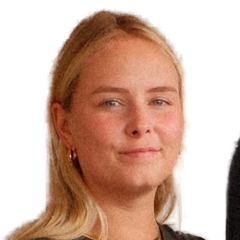
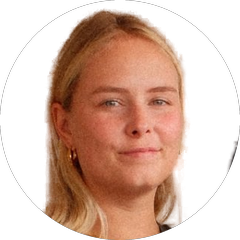
Ronde gezichtsfoto's met witte achtergrond
Claude-Session: https://claude.ai/code/session_01CxNm3TScYfzoPuYnLpJg8V

diff --git a/index.html b/index.html
@@ -2540,7 +2540,7 @@ a.hstat:hover span:not(.hs-star){color:rgba(255,255,255,.8)}
 <div class="hb-grid"><div class="hb-left"><h1 class="hero-h">
 <span class="blue">Salesafspraken in je agenda</span> zonder zelf acquisitie te doen
       </h1>
-<a class="hb-mob" href="#hvVideo"><span class="hb-faces"><img src="/assets/img/face-anne-roos.png?v=2" width="160" height="160" alt="Anne-Roos"/><img src="/assets/img/face-demi.png?v=2" width="160" height="160" alt="Demi"/></span><span class="hb-hi">Check even de korte video hieronder</span><svg viewBox="0 0 40 46" width="26" height="30" fill="none" stroke="currentColor" stroke-width="2.6" stroke-linecap="round" stroke-linejoin="round" aria-hidden="true"><path d="M6 4c14 2 18 14 16 34"/><path d="M14 30l8 10 8-10"/></svg></a>
+<a class="hb-mob" href="#hvVideo"><span class="hb-faces"><img src="/assets/img/face-anne-roos.png?v=3" width="160" height="160" alt="Anne-Roos"/><img src="/assets/img/face-demi.png?v=3" width="160" height="160" alt="Demi"/></span><span class="hb-hi">Check even de korte video hieronder</span><svg viewBox="0 0 40 46" width="26" height="30" fill="none" stroke="currentColor" stroke-width="2.6" stroke-linecap="round" stroke-linejoin="round" aria-hidden="true"><path d="M6 4c14 2 18 14 16 34"/><path d="M14 30l8 10 8-10"/></svg></a>
 <div class="hcta">
 <a class="hcta-main" href="/book" onclick="if(window.l2lTrack)l2lTrack('hero_fitcheck_click');"><span>Plan je gratis fitcheck</span><svg width="18" height="18" viewBox="0 0 24 24" fill="none" stroke="currentColor" stroke-width="2.4" stroke-linecap="round" stroke-linejoin="round" aria-hidden="true"><path d="M5 12h14M13 6l6 6-6 6"/></svg></a>
 </div>
@@ -3202,7 +3202,7 @@ if(document.readyState==='complete')begin();else window.addEventListener('load',
 <div class="cf-hp"><label for="sc-website">Website</label><input autocomplete="off" id="sc-website" name="website" tabindex="-1" type="text"/></div>
 <button class="btn-solid cf-submit" id="scSubmit" type="submit">Stuur mij de marktscan →</button>
 <div aria-live="polite" class="cf-msg" id="scMsg" role="status"></div>
-<p class="who-l who-c"><span class="cm-faces"><img src="/assets/img/face-anne-roos.png?v=2" width="44" height="44" alt="Anne-Roos"><img src="/assets/img/face-demi.png?v=2" width="44" height="44" alt="Demi"></span><span>Je marktscan komt van Anne-Roos of Demi</span></p>
+<p class="who-l who-c"><span class="cm-faces"><img src="/assets/img/face-anne-roos.png?v=3" width="44" height="44" alt="Anne-Roos"><img src="/assets/img/face-demi.png?v=3" width="44" height="44" alt="Demi"></span><span>Je marktscan komt van Anne-Roos of Demi</span></p>
 <p class="scan-sub">Binnen een werkdag in je mailbox. Geen verplichtingen en geen verkoopgesprek vooraf.</p>
 </form>
 </div>
@@ -3262,7 +3262,7 @@ if(document.readyState==='complete')begin();else window.addEventListener('load',
 <div class="p-volume-sub"><b>100 per dag</b>, 30 verzenddagen &middot;&nbsp;±&nbsp;1.000 nieuwe bedrijven</div>
 <div class="p-line"></div>
 <ul class="p-features">
-<li class="cm-li"><span class="cm-faces"><img src="/assets/img/face-anne-roos.png?v=2" width="44" height="44" alt="Anne-Roos"><img src="/assets/img/face-demi.png?v=2" width="44" height="44" alt="Demi"></span><span>Anne-Roos of Demi als vaste campagnemanager</span></li>
+<li class="cm-li"><span class="cm-faces"><img src="/assets/img/face-anne-roos.png?v=3" width="44" height="44" alt="Anne-Roos"><img src="/assets/img/face-demi.png?v=3" width="44" height="44" alt="Demi"></span><span>Anne-Roos of Demi als vaste campagnemanager</span></li>
 <li>Wij schrijven de mails</li>
 <li>Eén afgebakende doelgroep</li>
 <li>Garantie op genoeg leads</li>
@@ -3279,7 +3279,7 @@ if(document.readyState==='complete')begin();else window.addEventListener('load',
 <div class="p-volume-sub"><b>250 per dag</b>, 30 verzenddagen &middot;&nbsp;±&nbsp;2.500 nieuwe bedrijven</div>
 <div class="p-line"></div>
 <ul class="p-features">
-<li class="cm-li"><span class="cm-faces"><img src="/assets/img/face-anne-roos.png?v=2" width="44" height="44" alt="Anne-Roos"><img src="/assets/img/face-demi.png?v=2" width="44" height="44" alt="Demi"></span><span>Anne-Roos of Demi als vaste campagnemanager</span></li>
+<li class="cm-li"><span class="cm-faces"><img src="/assets/img/face-anne-roos.png?v=3" width="44" height="44" alt="Anne-Roos"><img src="/assets/img/face-demi.png?v=3" width="44" height="44" alt="Demi"></span><span>Anne-Roos of Demi als vaste campagnemanager</span></li>
 <li>Wij schrijven de mails</li>
 <li>Twee doelgroepen tegelijk</li>
 <li>Garantie op genoeg leads</li>
@@ -3298,7 +3298,7 @@ if(document.readyState==='complete')begin();else window.addEventListener('load',
 <div class="p-line"></div>
 <ul class="p-features">
 <li class="p-gar">Contractuele garantie op positieve reacties</li>
-<li class="cm-li"><span class="cm-faces"><img src="/assets/img/face-anne-roos.png?v=2" width="44" height="44" alt="Anne-Roos"><img src="/assets/img/face-demi.png?v=2" width="44" height="44" alt="Demi"></span><span>Anne-Roos of Demi als vaste campagnemanager</span></li>
+<li class="cm-li"><span class="cm-faces"><img src="/assets/img/face-anne-roos.png?v=3" width="44" height="44" alt="Anne-Roos"><img src="/assets/img/face-demi.png?v=3" width="44" height="44" alt="Demi"></span><span>Anne-Roos of Demi als vaste campagnemanager</span></li>
 <li>Wij schrijven de mails</li>
 <li>Drie doelgroepen tegelijk</li>
 <li>Garantie op genoeg leads</li>
@@ -3317,7 +3317,7 @@ if(document.readyState==='complete')begin();else window.addEventListener('load',
 <div class="p-line"></div>
 <ul class="p-features">
 <li class="p-gar">Contractuele garantie op positieve reacties</li>
-<li class="cm-li"><span class="cm-faces"><img src="/assets/img/face-anne-roos.png?v=2" width="44" height="44" alt="Anne-Roos"><img src="/assets/img/face-demi.png?v=2" width="44" height="44" alt="Demi"></span><span>Anne-Roos of Demi als vaste campagnemanager</span></li>
+<li class="cm-li"><span class="cm-faces"><img src="/assets/img/face-anne-roos.png?v=3" width="44" height="44" alt="Anne-Roos"><img src="/assets/img/face-demi.png?v=3" width="44" height="44" alt="Demi"></span><span>Anne-Roos of Demi als vaste campagnemanager</span></li>
 <li>Wij schrijven de mails</li>
 <li>Vijf doelgroepen tegelijk</li>
 <li>Garantie op genoeg leads</li>
@@ -3485,12 +3485,12 @@ if(document.readyState==='complete')begin();else window.addEventListener('load',
 <li>Domeinen, mailboxen en warmup</li>
 <li>Elke reactie handmatig gefilterd</li>
 <li>Wekelijkse rapportage</li>
-<li class="cm-li"><span class="cm-faces"><img src="/assets/img/face-anne-roos.png?v=2" width="44" height="44" alt="Anne-Roos"><img src="/assets/img/face-demi.png?v=2" width="44" height="44" alt="Demi"></span><span>Anne-Roos of Demi als vaste campagnemanager</span></li>
+<li class="cm-li"><span class="cm-faces"><img src="/assets/img/face-anne-roos.png?v=3" width="44" height="44" alt="Anne-Roos"><img src="/assets/img/face-demi.png?v=3" width="44" height="44" alt="Demi"></span><span>Anne-Roos of Demi als vaste campagnemanager</span></li>
 </ul>
 </div>
 <div class="cfg-sum-bot">
 <a class="cfg-btn" href="/book" target="_blank" id="cfgGo">Doe de gratis fitcheck</a>
-<p class="who-l who-c"><span class="cm-faces"><img src="/assets/img/face-anne-roos.png?v=2" width="44" height="44" alt="Anne-Roos"><img src="/assets/img/face-demi.png?v=2" width="44" height="44" alt="Demi"></span><span>Je spreekt Anne-Roos of Demi</span></p>
+<p class="who-l who-c"><span class="cm-faces"><img src="/assets/img/face-anne-roos.png?v=3" width="44" height="44" alt="Anne-Roos"><img src="/assets/img/face-demi.png?v=3" width="44" height="44" alt="Demi"></span><span>Je spreekt Anne-Roos of Demi</span></p>
 <p class="cfg-note">In de fitcheck rekenen we door of dit pakket bij je markt past. Geen setupfee, geen aparte toolingrekening.</p>
 </div>
 </div>
@@ -3770,7 +3770,7 @@ if(document.readyState==='complete')begin();else window.addEventListener('load',
 </div>
 <div class="cmp-foot">
   <p><strong>Eerst weten of het werkt voor jouw bedrijf?</strong>We kijken naar je doelgroep, aanbod en marktpotentieel. Past koude e-mail niet bij jouw bedrijf? Dan zeggen we dat ook.</p>
-  <div class="who-wrap"><a class="btn-solid" href="/book" target="_blank" style="display:inline-flex;white-space:nowrap;">Doe de gratis fitcheck</a><p class="who-l who-c"><span class="cm-faces"><img src="/assets/img/face-anne-roos.png?v=2" width="44" height="44" alt="Anne-Roos"><img src="/assets/img/face-demi.png?v=2" width="44" height="44" alt="Demi"></span><span>Je spreekt Anne-Roos of Demi</span></p></div>
+  <div class="who-wrap"><a class="btn-solid" href="/book" target="_blank" style="display:inline-flex;white-space:nowrap;">Doe de gratis fitcheck</a><p class="who-l who-c"><span class="cm-faces"><img src="/assets/img/face-anne-roos.png?v=3" width="44" height="44" alt="Anne-Roos"><img src="/assets/img/face-demi.png?v=3" width="44" height="44" alt="Demi"></span><span>Je spreekt Anne-Roos of Demi</span></p></div>
 </div>
 </div>
 <a class="rv-mini reveal rv-wide " href="#reviews" aria-label="Review van Arnold, 5 sterren, lees alle reviews">
@@ -3897,7 +3897,7 @@ if(document.readyState==='complete')begin();else window.addEventListener('load',
 <a class="btn-solid" href="/book" style="display:inline-flex;" target="_blank">Doe de gratis fitcheck</a>
 <a class="btn-ghost-l2l" href="#contact">Of stel je vraag per mail</a>
 </div>
-<p class="who-l who-c reveal"><span class="cm-faces"><img src="/assets/img/face-anne-roos.png?v=2" width="44" height="44" alt="Anne-Roos"><img src="/assets/img/face-demi.png?v=2" width="44" height="44" alt="Demi"></span><span>Je spreekt Anne-Roos of Demi</span></p>
+<p class="who-l who-c reveal"><span class="cm-faces"><img src="/assets/img/face-anne-roos.png?v=3" width="44" height="44" alt="Anne-Roos"><img src="/assets/img/face-demi.png?v=3" width="44" height="44" alt="Demi"></span><span>Je spreekt Anne-Roos of Demi</span></p>
 <p class="reveal" style="text-align:center;margin-top:18px;font-size:14px;color:var(--muted);">
     Meer uitzoeken? In de <a href="/kennis" style="color:var(--accent2);text-decoration:underline;text-underline-offset:3px;">kennisbank</a> staan prijzen, wetgeving, deliverability en onze eigen campagnecijfers.
   </p>

diff --git a/klant.html b/klant.html
@@ -378,7 +378,7 @@ html body .l2n-menu a.l2n-mcta{margin-top:20px;background:#2F6FED;color:#fff;tex
   <div class="panel active" id="panel-0">
     <h1 class="welcome-title">Vertel ons <span class="blue">wat je verkoopt</span>, en <span class="blue">aan wie</span></h1>
     <p class="welcome-sub">13 vragen, ongeveer 6 minuten. Een deel is aanklikken en de laatste twee mag je overslaan. Hoe concreter je antwoordt, hoe scherper het plan dat je terugkrijgt.</p>
-    <p class="who-l" style="margin-bottom:24px"><span class="cm-faces"><img src="/assets/img/face-anne-roos.png?v=2" width="44" height="44" alt="Anne-Roos"><img src="/assets/img/face-demi.png?v=2" width="44" height="44" alt="Demi"></span><span>Anne-Roos en Demi lezen je antwoorden zelf</span></p>
+    <p class="who-l" style="margin-bottom:24px"><span class="cm-faces"><img src="/assets/img/face-anne-roos.png?v=3" width="44" height="44" alt="Anne-Roos"><img src="/assets/img/face-demi.png?v=3" width="44" height="44" alt="Demi"></span><span>Anne-Roos en Demi lezen je antwoorden zelf</span></p>
 
     <div class="resume" id="resume">
       <div class="resume-t">Je was al begonnen</div>
@@ -405,7 +405,7 @@ html body .l2n-menu a.l2n-mcta{margin-top:20px;background:#2F6FED;color:#fff;tex
       <div class="tl-item">
         <div class="tl-dot">2</div>
         <div class="tl-body">
-          <div class="tl-title">Fitcheck met Anne-Roos of Demi<span class="cm-faces"><img src="/assets/img/face-anne-roos.png?v=2" width="44" height="44" alt="Anne-Roos"><img src="/assets/img/face-demi.png?v=2" width="44" height="44" alt="Demi"></span></div>
+          <div class="tl-title">Fitcheck met Anne-Roos of Demi<span class="cm-faces"><img src="/assets/img/face-anne-roos.png?v=3" width="44" height="44" alt="Anne-Roos"><img src="/assets/img/face-demi.png?v=3" width="44" height="44" alt="Demi"></span></div>
           <div class="tl-sub">Je krijgt een voorstel: welk segment, welke boodschap en hoeveel reacties je kunt verwachten.</div>
         </div>
       </div>
@@ -437,7 +437,7 @@ html body .l2n-menu a.l2n-mcta{margin-top:20px;background:#2F6FED;color:#fff;tex
       Leads, domeinen, mailboxen, technische setup, CRM-koppeling, opwarming, copy. Alles. Jij vult deze vragenlijst in, checkt de leadlijst en keurt de copy goed.
     </div>
     <button class="btn-start" onclick="goTo(1)">Vragenlijst invullen &rarr;</button>
-    <p class="who-l who-c"><span class="cm-faces"><img src="/assets/img/face-anne-roos.png?v=2" width="44" height="44" alt="Anne-Roos"><img src="/assets/img/face-demi.png?v=2" width="44" height="44" alt="Demi"></span><span>Je antwoorden komen direct bij Anne-Roos en Demi binnen</span></p>
+    <p class="who-l who-c"><span class="cm-faces"><img src="/assets/img/face-anne-roos.png?v=3" width="44" height="44" alt="Anne-Roos"><img src="/assets/img/face-demi.png?v=3" width="44" height="44" alt="Demi"></span><span>Je antwoorden komen direct bij Anne-Roos en Demi binnen</span></p>
   </div>
 
   <!-- ══ BLOK 1: WAT JULLIE VERKOPEN ══ -->
@@ -724,7 +724,7 @@ html body .l2n-menu a.l2n-mcta{margin-top:20px;background:#2F6FED;color:#fff;tex
       <button class="btn btn-ghost" onclick="goTo(13)">&larr; Terug</button>
       <button class="btn btn-primary" id="submit-btn" onclick="submit()">Versturen &#10003;</button>
     </div>
-    <p class="who-l who-c"><span class="cm-faces"><img src="/assets/img/face-anne-roos.png?v=2" width="44" height="44" alt="Anne-Roos"><img src="/assets/img/face-demi.png?v=2" width="44" height="44" alt="Demi"></span><span>Je antwoorden komen direct bij Anne-Roos en Demi binnen</span></p>
+    <p class="who-l who-c"><span class="cm-faces"><img src="/assets/img/face-anne-roos.png?v=3" width="44" height="44" alt="Anne-Roos"><img src="/assets/img/face-demi.png?v=3" width="44" height="44" alt="Demi"></span><span>Je antwoorden komen direct bij Anne-Roos en Demi binnen</span></p>
   </div>
 
   <!-- PANEL 15: BEDANKT -->

diff --git a/book.html b/book.html
@@ -532,7 +532,7 @@ html body .l2n-menu a.l2n-mcta{margin-top:20px;background:#2F6FED;color:#fff;tex
   <header class="bk-head">
     <h1>Doe de <span class="blue">gratis fitcheck</span> met <span class="l2b">Link<i>2</i>Leads</span></h1>
     <p class="sub">In 30 minuten rekenen we samen door wat koude e-mail jou oplevert. Je gaat weg met een plan voor je eerste campagne en een startdatum.</p>
-    <p class="who-l"><span class="cm-faces"><img src="/assets/img/face-anne-roos.png?v=2" width="44" height="44" alt="Anne-Roos"><img src="/assets/img/face-demi.png?v=2" width="44" height="44" alt="Demi"></span><span>Je spreekt Anne-Roos of Demi, geen accountmanager</span></p>
+    <p class="who-l"><span class="cm-faces"><img src="/assets/img/face-anne-roos.png?v=3" width="44" height="44" alt="Anne-Roos"><img src="/assets/img/face-demi.png?v=3" width="44" height="44" alt="Demi"></span><span>Je spreekt Anne-Roos of Demi, geen accountmanager</span></p>
   </header>
 
   <div class="left">
